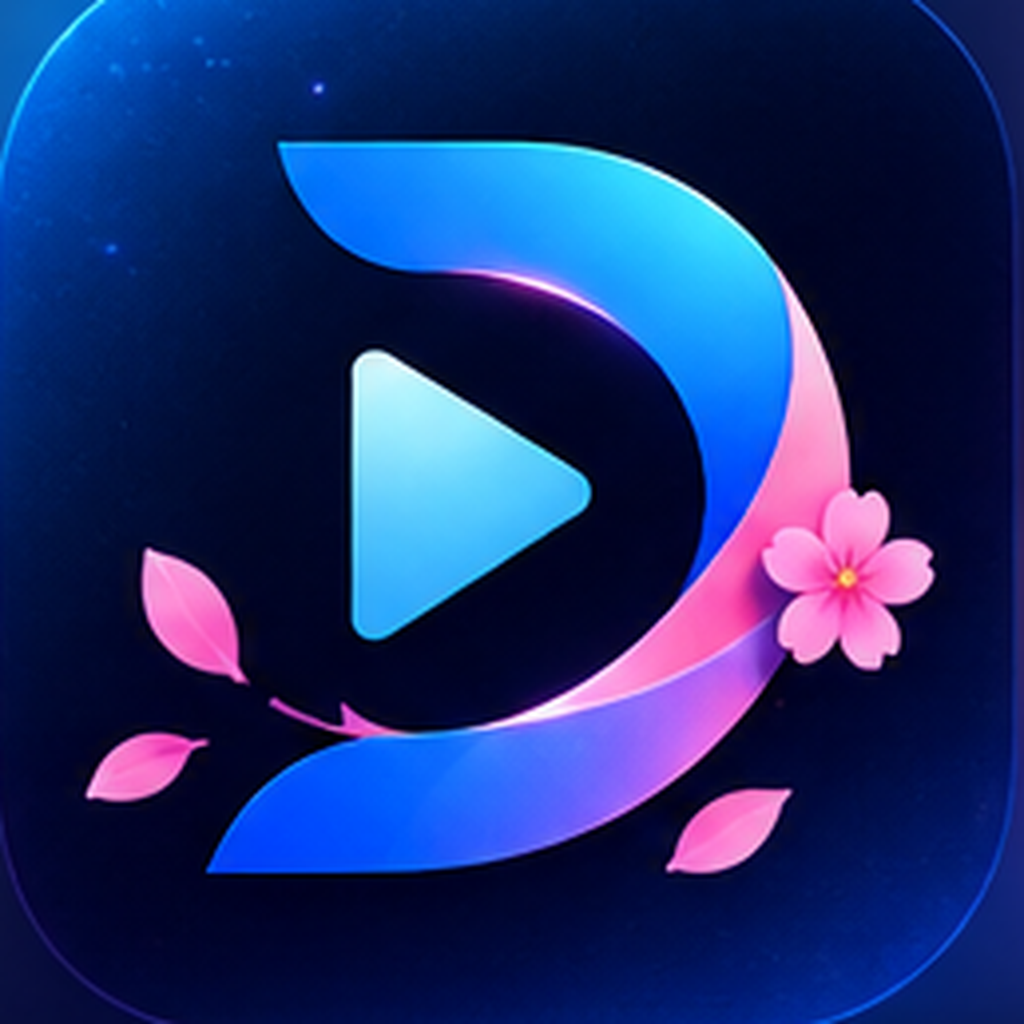
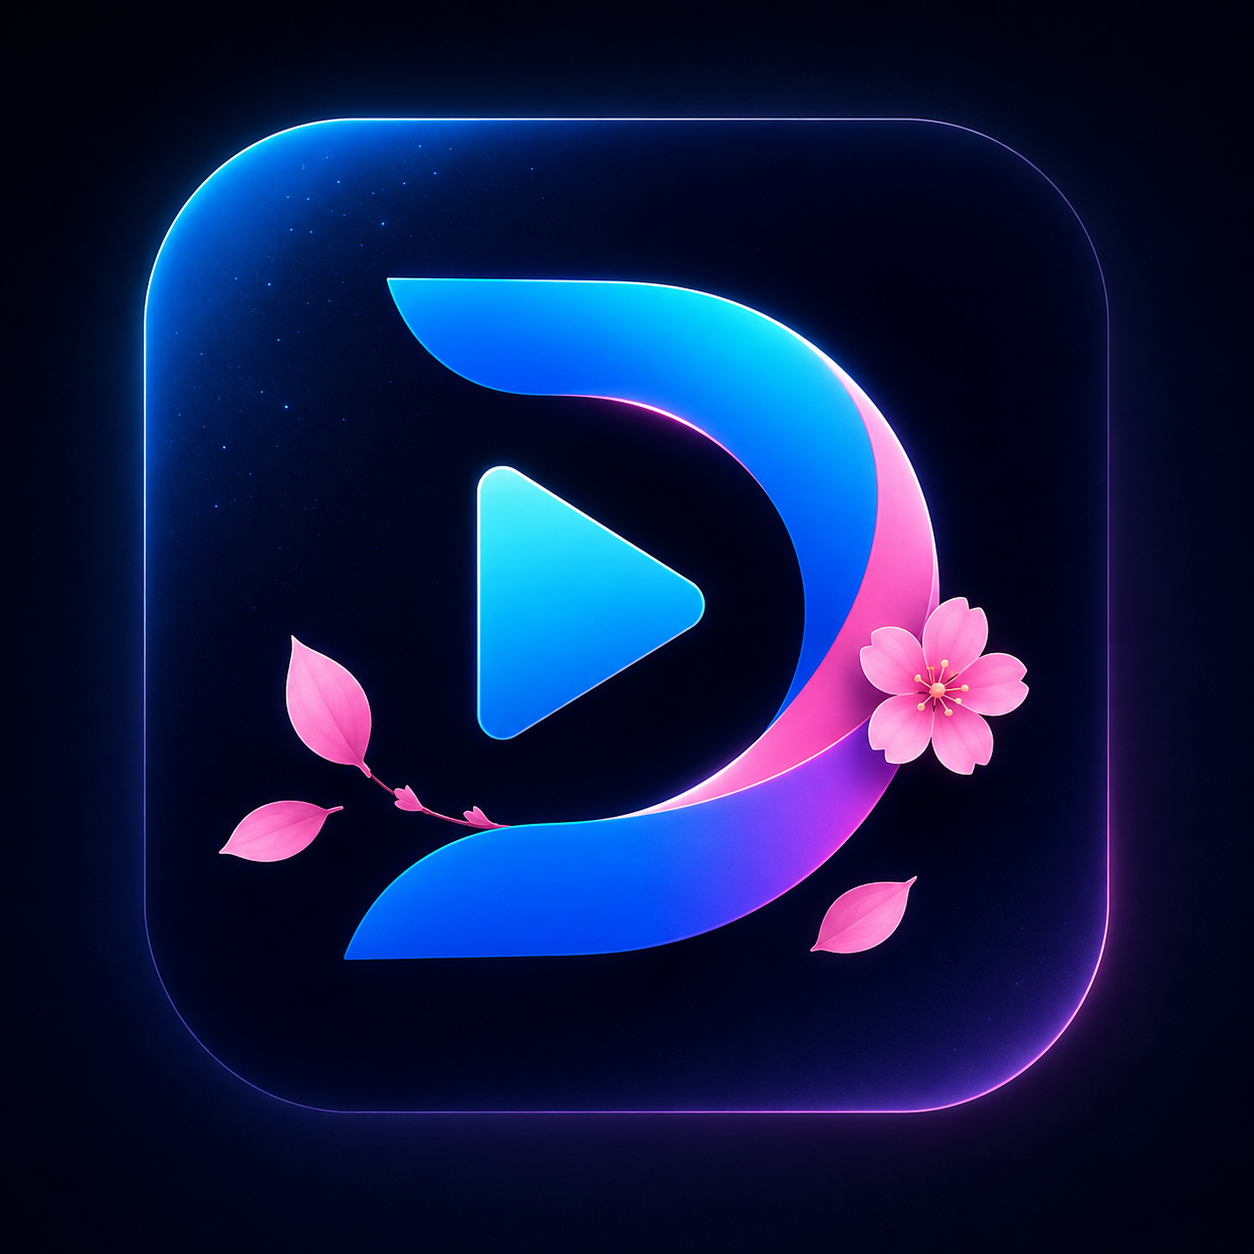
fix: rebuild Dramark brand experience

diff --git a/src/components/layout/BrandSplash.tsx b/src/components/layout/BrandSplash.tsx
@@ -1,10 +1,11 @@
 import { useEffect, useState } from 'react';
 
-import splashArtwork from '@/assets/brand/dramark-splash.png';
+import splashBackground from '@/assets/brand/dramark-splash-bg.png';
+import brandMark from '@/assets/brand/dramark-mark.png';
 
-const SPLASH_DURATION_MS = 900;
-const REDUCED_MOTION_DURATION_MS = 450;
-const FADE_DURATION_MS = 240;
+const SPLASH_DURATION_MS = 1250;
+const REDUCED_MOTION_DURATION_MS = 650;
+const FADE_DURATION_MS = 320;
 
 function prefersReducedMotion(): boolean {
   return (
@@ -17,8 +18,9 @@ export function BrandSplash() {
   const [isLeaving, setIsLeaving] = useState(false);
 
   useEffect(() => {
-    const duration = prefersReducedMotion() ? REDUCED_MOTION_DURATION_MS : SPLASH_DURATION_MS;
-    const leaveDelay = prefersReducedMotion() ? duration : duration - FADE_DURATION_MS;
+    const reducedMotion = prefersReducedMotion();
+    const duration = reducedMotion ? REDUCED_MOTION_DURATION_MS : SPLASH_DURATION_MS;
+    const leaveDelay = reducedMotion ? duration : duration - FADE_DURATION_MS;
     const leaveTimer = window.setTimeout(() => setIsLeaving(true), leaveDelay);
     const hideTimer = window.setTimeout(() => setIsVisible(false), duration);
 
@@ -35,19 +37,37 @@ export function BrandSplash() {
   return (
     <div
       className={[
-        'fixed inset-0 z-50 min-h-dvh overflow-hidden bg-app transition-opacity duration-300 ease-[var(--ease-dramark)] motion-reduce:transition-none',
+        'fixed inset-0 z-50 min-h-dvh overflow-hidden bg-app transition-opacity duration-[320ms] ease-[var(--ease-dramark)] motion-reduce:transition-none',
         isLeaving ? 'opacity-0' : 'opacity-100'
       ].join(' ')}
       aria-hidden="true"
     >
       <img
-        src={splashArtwork}
+        src={splashBackground}
         alt=""
-        className="h-full w-full object-cover object-center"
+        className="absolute inset-0 h-full w-full object-cover object-center"
         decoding="async"
         fetchPriority="high"
       />
-      <div className="absolute inset-0 bg-[radial-gradient(circle_at_50%_47%,rgba(89,183,255,0.08),transparent_16rem),linear-gradient(180deg,rgba(7,9,18,0.04)_0%,rgba(7,9,18,0.08)_48%,#070912_100%)]" />
+      <div className="absolute inset-0 bg-[radial-gradient(circle_at_50%_42%,rgba(89,183,255,0.13),transparent_16rem),linear-gradient(180deg,rgba(7,9,18,0.10)_0%,rgba(7,9,18,0.34)_58%,#070912_100%)]" />
+      <div className="relative flex min-h-dvh flex-col items-center justify-center px-8 pb-[calc(2.5rem+env(safe-area-inset-bottom))] pt-[calc(2.5rem+env(safe-area-inset-top))] text-center">
+        <img
+          src={brandMark}
+          alt=""
+          className="brand-splash-mark size-28 object-contain drop-shadow-[0_0_28px_rgba(89,183,255,0.26)] sm:size-32"
+          decoding="async"
+          fetchPriority="high"
+        />
+        <p className="mt-5 text-[2.15rem] font-black leading-none tracking-[0.01em] text-white drop-shadow-[0_0_18px_rgba(89,183,255,0.20)]">
+          Dramark
+        </p>
+        <p className="mt-3 text-[0.68rem] font-bold tracking-[0.24em] text-brand-soft/92">
+          VOTRE BIBLIOTHÈQUE DE DRAMAS
+        </p>
+        <div className="mt-8 h-1 w-36 overflow-hidden rounded-full bg-white/12 shadow-[0_0_18px_rgba(89,183,255,0.16)]">
+          <div className="brand-splash-loader h-full w-1/2 rounded-full bg-[linear-gradient(90deg,rgba(89,183,255,0.10),rgba(154,216,255,0.98),rgba(113,215,255,0.55))]" />
+        </div>
+      </div>
     </div>
   );
 }

diff --git a/src/pages/HomePage.tsx b/src/pages/HomePage.tsx
@@ -1,7 +1,7 @@
 import { ArrowRight, Library, Search } from 'lucide-react';
 import { NavLink } from 'react-router-dom';
 
-import homeBackground from '@/assets/brand/dramark-home-bg.jpg';
+import homeBackground from '@/assets/brand/dramark-home-bg.png';
 import logoHorizontal from '@/assets/brand/dramark-logo-horizontal.png';
 import brandMark from '@/assets/brand/dramark-mark.png';
 import { MediaCard } from '@/features/catalog/MediaCard';
@@ -90,23 +90,20 @@ export function HomePage() {
 
   return (
     <div className="space-y-8">
-      <header className="relative -mx-4 -mt-[calc(1rem+env(safe-area-inset-top))] overflow-hidden px-4 pb-8 pt-[calc(2.25rem+env(safe-area-inset-top))] sm:-mx-6 sm:px-6 lg:-mx-8 lg:px-8">
+      <header className="relative -mx-4 -mt-[calc(1rem+env(safe-area-inset-top))] overflow-hidden px-4 pb-9 pt-[calc(2.6rem+env(safe-area-inset-top))] sm:-mx-6 sm:px-6 lg:-mx-8 lg:px-8">
         <img
           src={homeBackground}
           alt=""
-          className="absolute inset-0 h-full w-full object-cover object-[50%_26%] opacity-[0.58]"
+          className="absolute inset-0 h-full w-full object-cover object-[50%_22%] opacity-[0.66]"
           loading="eager"
           decoding="async"
         />
-        <div className="absolute inset-0 bg-[radial-gradient(circle_at_50%_34%,rgba(89,183,255,0.18),transparent_17rem),radial-gradient(circle_at_72%_18%,rgba(160,94,255,0.12),transparent_14rem),linear-gradient(180deg,rgba(7,9,18,0.18)_0%,rgba(7,9,18,0.72)_62%,#070912_100%)]" />
+        <div className="absolute inset-0 bg-[radial-gradient(circle_at_50%_34%,rgba(89,183,255,0.18),transparent_17rem),radial-gradient(circle_at_72%_18%,rgba(160,94,255,0.12),transparent_14rem),linear-gradient(180deg,rgba(7,9,18,0.20)_0%,rgba(7,9,18,0.66)_58%,#070912_100%)]" />
         <div className="relative mx-auto flex max-w-xl flex-col items-center text-center">
-          <p className="text-xs font-semibold tracking-[0.18em] text-brand-soft/90">
-            Votre bibliothèque
-          </p>
           <img
             src={logoHorizontal}
             alt="Dramark"
-            className="mt-4 h-auto w-[min(17rem,78vw)] drop-shadow-[0_0_30px_rgba(89,183,255,0.25)] sm:w-80"
+            className="h-auto w-[min(15.5rem,72vw)] drop-shadow-[0_0_30px_rgba(89,183,255,0.24)] sm:w-72"
             loading="eager"
             decoding="async"
           />

diff --git a/vite.config.ts b/vite.config.ts
@@ -23,14 +23,20 @@ export default defineConfig({
         theme_color: '#070912',
         icons: [
           {
-            src: '/brand/dramark-app-icon.png',
-            sizes: '1024x1024',
+            src: '/brand/dramark-pwa-192.png',
+            sizes: '192x192',
             type: 'image/png',
             purpose: 'any'
           },
           {
-            src: '/brand/dramark-pwa-maskable.png',
-            sizes: '1024x1024',
+            src: '/brand/dramark-pwa-512.png',
+            sizes: '512x512',
+            type: 'image/png',
+            purpose: 'any'
+          },
+          {
+            src: '/brand/dramark-pwa-maskable-512.png',
+            sizes: '512x512',
             type: 'image/png',
             purpose: 'maskable'
           }
@@ -38,7 +44,7 @@ export default defineConfig({
       },
       workbox: {
         globPatterns: ['**/*.{js,css,html,svg,png,jpg,ico}'],
-        globIgnores: ['**/dramark-splash-*.png']
+        globIgnores: ['**/dramark-splash-bg-*.png']
       }
     })
   ],

diff --git a/src/styles/global.css b/src/styles/global.css
@@ -86,6 +86,14 @@ a[href] {
 .media-enter {
   animation: media-enter 260ms var(--ease-dramark) both;
 }
+.brand-splash-mark {
+  animation: brand-splash-mark 520ms var(--ease-dramark) both;
+}
+
+.brand-splash-loader {
+  animation: brand-splash-loader 920ms var(--ease-dramark) infinite;
+  transform-origin: left center;
+}
 
 .pressable {
   transition:
@@ -110,6 +118,30 @@ a[href] {
     0 0 0 4px rgba(89, 183, 255, 0.95);
 }
 
+@keyframes brand-splash-mark {
+  from {
+    opacity: 0;
+    transform: scale(0.96);
+    filter: drop-shadow(0 0 0 rgba(89, 183, 255, 0));
+  }
+  to {
+    opacity: 1;
+    transform: scale(1);
+    filter: drop-shadow(0 0 22px rgba(89, 183, 255, 0.18));
+  }
+}
+
+@keyframes brand-splash-loader {
+  0% {
+    transform: translateX(-105%) scaleX(0.72);
+  }
+  48% {
+    transform: translateX(35%) scaleX(1);
+  }
+  100% {
+    transform: translateX(210%) scaleX(0.72);
+  }
+}
 @keyframes page-enter {
   from {
     opacity: 0;

diff --git a/index.html b/index.html
@@ -11,7 +11,6 @@
     <link rel="icon" type="image/png" sizes="32x32" href="/brand/favicon-32.png" />
     <link rel="icon" type="image/png" sizes="16x16" href="/brand/favicon-16.png" />
     <link rel="apple-touch-icon" href="/brand/apple-touch-icon.png" />
-    <link rel="preload" as="image" href="/src/assets/brand/dramark-splash.png" />
     <title>Dramark</title>
   </head>
   <body>
